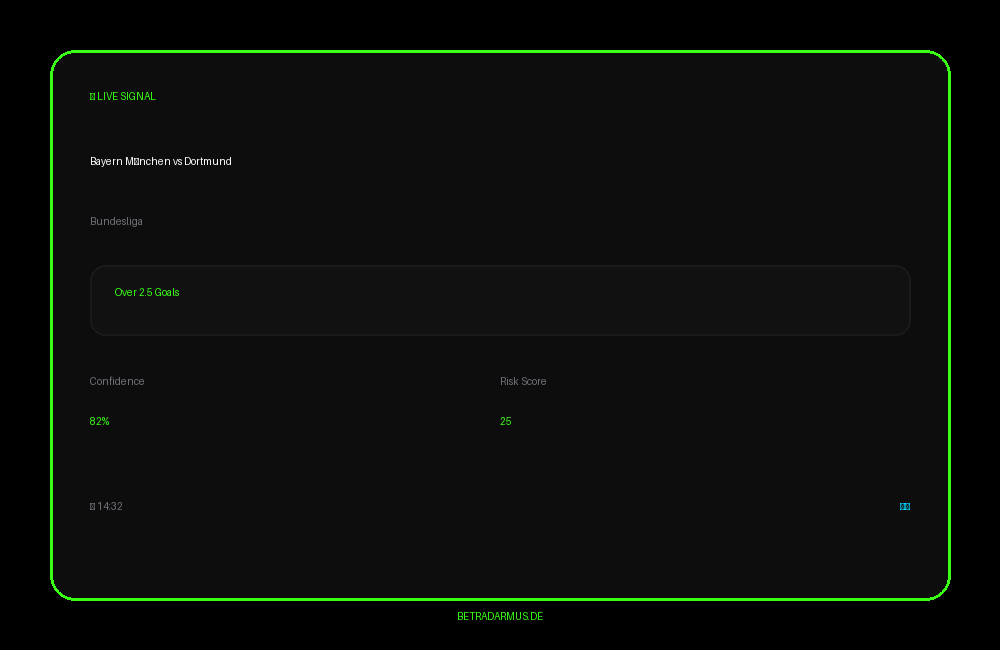
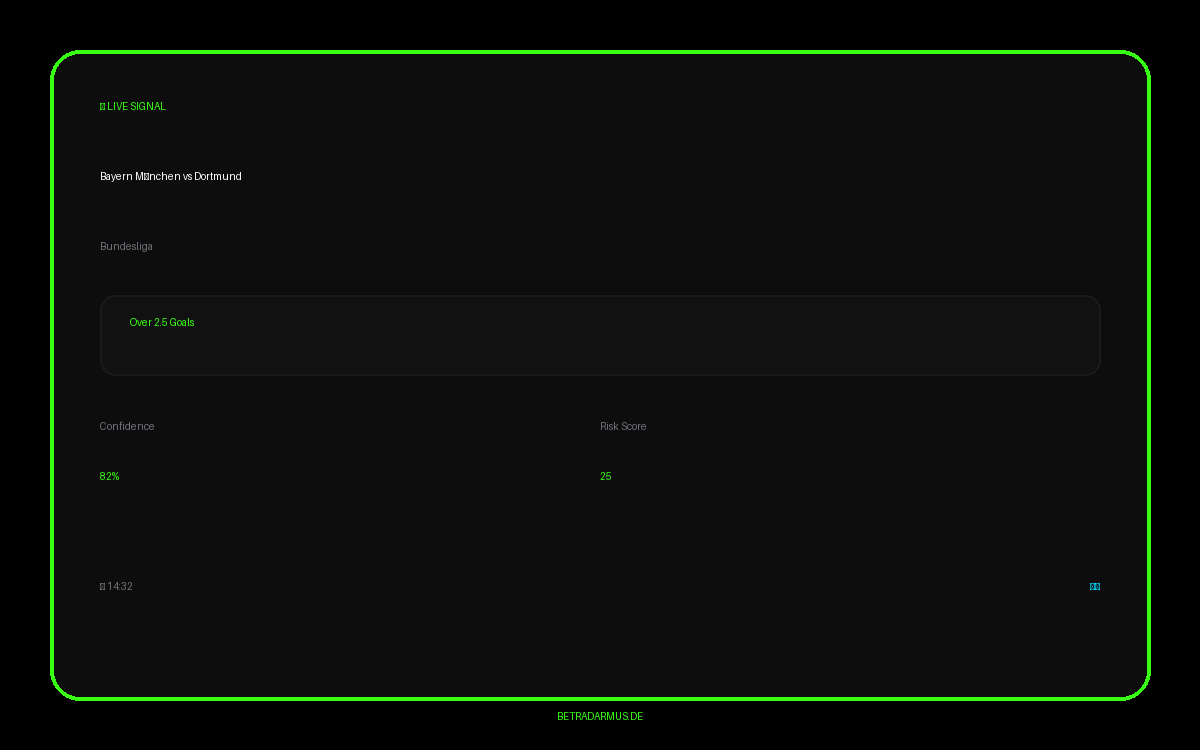
auto-commit for 75c70f3d-0714-4861-8dba-f87321c43a50

diff --git a/backend/signal_image_generator.py b/backend/signal_image_generator.py
@@ -60,33 +60,33 @@ def create_signal_image(signal: Dict[str, Any]) -> io.BytesIO:
         BytesIO object containing the PNG image
     """
     
-    # Image dimensions - LARGER for better readability
-    width = 1000
-    height = 650
+    # Image dimensions - EXTRA LARGE for maximum readability
+    width = 1200
+    height = 750
     padding = 50
-    card_padding = 40
+    card_padding = 50
     
     # Create image with dark background
     img = Image.new('RGB', (width, height), hex_to_rgb(COLORS['background']))
     draw = ImageDraw.Draw(img)
     
-    # Try to load fonts - MUCH LARGER sizes
+    # Try to load fonts - EXTRA LARGE sizes
     try:
-        font_bold_xlarge = ImageFont.truetype("/usr/share/fonts/truetype/dejavu/DejaVuSans-Bold.ttf", 48)
-        font_bold_large = ImageFont.truetype("/usr/share/fonts/truetype/dejavu/DejaVuSans-Bold.ttf", 38)
-        font_bold_medium = ImageFont.truetype("/usr/share/fonts/truetype/dejavu/DejaVuSans-Bold.ttf", 32)
-        font_bold_small = ImageFont.truetype("/usr/share/fonts/truetype/dejavu/DejaVuSans-Bold.ttf", 28)
-        font_regular = ImageFont.truetype("/usr/share/fonts/truetype/dejavu/DejaVuSans.ttf", 26)
-        font_small = ImageFont.truetype("/usr/share/fonts/truetype/dejavu/DejaVuSans.ttf", 22)
-        font_large_number = ImageFont.truetype("/usr/share/fonts/truetype/dejavu/DejaVuSans-Bold.ttf", 64)
+        font_header = ImageFont.truetype("/usr/share/fonts/truetype/dejavu/DejaVuSans-Bold.ttf", 42)
+        font_match = ImageFont.truetype("/usr/share/fonts/truetype/dejavu/DejaVuSans-Bold.ttf", 52)
+        font_league = ImageFont.truetype("/usr/share/fonts/truetype/dejavu/DejaVuSans.ttf", 32)
+        font_market = ImageFont.truetype("/usr/share/fonts/truetype/dejavu/DejaVuSans-Bold.ttf", 38)
+        font_label = ImageFont.truetype("/usr/share/fonts/truetype/dejavu/DejaVuSans.ttf", 32)
+        font_number = ImageFont.truetype("/usr/share/fonts/truetype/dejavu/DejaVuSans-Bold.ttf", 85)
+        font_footer = ImageFont.truetype("/usr/share/fonts/truetype/dejavu/DejaVuSans-Bold.ttf", 28)
     except Exception:
-        font_bold_xlarge = ImageFont.load_default()
-        font_bold_large = ImageFont.load_default()
-        font_bold_medium = ImageFont.load_default()
-        font_bold_small = ImageFont.load_default()
-        font_regular = ImageFont.load_default()
-        font_small = ImageFont.load_default()
-        font_large_number = ImageFont.load_default()
+        font_header = ImageFont.load_default()
+        font_match = ImageFont.load_default()
+        font_league = ImageFont.load_default()
+        font_market = ImageFont.load_default()
+        font_label = ImageFont.load_default()
+        font_number = ImageFont.load_default()
+        font_footer = ImageFont.load_default()
     
     # Extract signal data
     match = signal.get('match', 'Team A vs Team B')
@@ -101,40 +101,40 @@ def create_signal_image(signal: Dict[str, Any]) -> io.BytesIO:
     card_y = padding
     card_width = width - (padding * 2)
     card_height = height - (padding * 2)
-    card_radius = 25
+    card_radius = 30
     
-    # Draw main card background with rounded corners
+    # Draw main card background with rounded corners and green border
     draw.rounded_rectangle(
         [card_x, card_y, card_x + card_width, card_y + card_height],
         radius=card_radius,
         fill=hex_to_rgb(COLORS['card_bg']),
         outline=hex_to_rgb(COLORS['green']),
-        width=3
+        width=4
     )
     
     # Content starting position
     content_x = card_x + card_padding
     content_y = card_y + card_padding
     
-    # Draw "LIVE SIGNAL" header with lightning bolt
+    # Draw "LIVE SIGNAL" header
     header_text = "⚡ LIVE SIGNAL"
-    draw.text((content_x, content_y), header_text, fill=hex_to_rgb(COLORS['green']), font=font_bold_medium)
+    draw.text((content_x, content_y), header_text, fill=hex_to_rgb(COLORS['green']), font=font_header)
     
-    content_y += 65
+    content_y += 70
     
-    # Draw match name - LARGE
-    draw.text((content_x, content_y), match, fill=hex_to_rgb(COLORS['white']), font=font_bold_xlarge)
-    content_y += 60
+    # Draw match name - EXTRA LARGE
+    draw.text((content_x, content_y), match, fill=hex_to_rgb(COLORS['white']), font=font_match)
+    content_y += 70
     
     # Draw league
-    draw.text((content_x, content_y), league, fill=hex_to_rgb(COLORS['gray']), font=font_regular)
-    content_y += 50
+    draw.text((content_x, content_y), league, fill=hex_to_rgb(COLORS['gray']), font=font_league)
+    content_y += 55
     
     # Draw market box
     market_box_x = content_x
     market_box_y = content_y
     market_box_width = card_width - (card_padding * 2)
-    market_box_height = 70
+    market_box_height = 80
     
     draw.rounded_rectangle(
         [market_box_x, market_box_y, market_box_x + market_box_width, market_box_y + market_box_height],
@@ -144,49 +144,49 @@ def create_signal_image(signal: Dict[str, Any]) -> io.BytesIO:
         width=2
     )
     
-    # Draw market text in box
-    market_text_y = market_box_y + (market_box_height - 28) // 2
-    draw.text((market_box_x + 25, market_text_y), market, fill=hex_to_rgb(COLORS['green']), font=font_bold_small)
+    # Draw market text in box - centered vertically
+    market_text_y = market_box_y + (market_box_height - 38) // 2
+    draw.text((market_box_x + 30, market_text_y), market, fill=hex_to_rgb(COLORS['green']), font=font_market)
     
-    content_y += market_box_height + 40
+    content_y += market_box_height + 45
     
     # Draw Confidence and Risk Score section
     section_width = (card_width - (card_padding * 2)) // 2
     
     # Confidence label
-    draw.text((content_x, content_y), "Confidence", fill=hex_to_rgb(COLORS['gray']), font=font_regular)
+    draw.text((content_x, content_y), "Confidence", fill=hex_to_rgb(COLORS['gray']), font=font_label)
     # Risk Score label
-    draw.text((content_x + section_width, content_y), "Risk Score", fill=hex_to_rgb(COLORS['gray']), font=font_regular)
+    draw.text((content_x + section_width, content_y), "Risk Score", fill=hex_to_rgb(COLORS['gray']), font=font_label)
     
-    content_y += 40
+    content_y += 50
     
-    # Confidence value - VERY LARGE
+    # Confidence value - HUGE
     conf_text = f"{int(confidence * 100)}%"
     conf_color = get_confidence_color(confidence)
-    draw.text((content_x, content_y), conf_text, fill=hex_to_rgb(conf_color), font=font_large_number)
+    draw.text((content_x, content_y), conf_text, fill=hex_to_rgb(conf_color), font=font_number)
     
-    # Risk Score value - VERY LARGE
+    # Risk Score value - HUGE
     risk_text = str(risk_score)
     risk_color = get_risk_color(risk_score)
-    draw.text((content_x + section_width, content_y), risk_text, fill=hex_to_rgb(risk_color), font=font_large_number)
+    draw.text((content_x + section_width, content_y), risk_text, fill=hex_to_rgb(risk_color), font=font_number)
     
-    content_y += 85
+    content_y += 110
     
     # Draw timestamp at bottom left
-    draw.text((content_x, content_y), f"⏰ {timestamp}", fill=hex_to_rgb(COLORS['gray']), font=font_small)
+    draw.text((content_x, content_y), f"⏰ {timestamp}", fill=hex_to_rgb(COLORS['gray']), font=font_footer)
     
     # Draw checkmark at bottom right
     checkmark = "✓✓"
-    checkmark_bbox = draw.textbbox((0, 0), checkmark, font=font_small)
+    checkmark_bbox = draw.textbbox((0, 0), checkmark, font=font_footer)
     checkmark_x = card_x + card_width - card_padding - (checkmark_bbox[2] - checkmark_bbox[0])
-    draw.text((checkmark_x, content_y), checkmark, fill=hex_to_rgb(COLORS['cyan']), font=font_small)
+    draw.text((checkmark_x, content_y), checkmark, fill=hex_to_rgb(COLORS['cyan']), font=font_footer)
     
     # Draw BETRADARMUS branding at very bottom center
     brand_text = "BETRADARMUS.DE"
-    brand_bbox = draw.textbbox((0, 0), brand_text, font=font_small)
+    brand_bbox = draw.textbbox((0, 0), brand_text, font=font_footer)
     brand_x = (width - (brand_bbox[2] - brand_bbox[0])) // 2
     brand_y = height - padding + 10
-    draw.text((brand_x, brand_y), brand_text, fill=hex_to_rgb(COLORS['green']), font=font_small)
+    draw.text((brand_x, brand_y), brand_text, fill=hex_to_rgb(COLORS['green']), font=font_footer)
     
     # Save to BytesIO
     img_bytes = io.BytesIO()